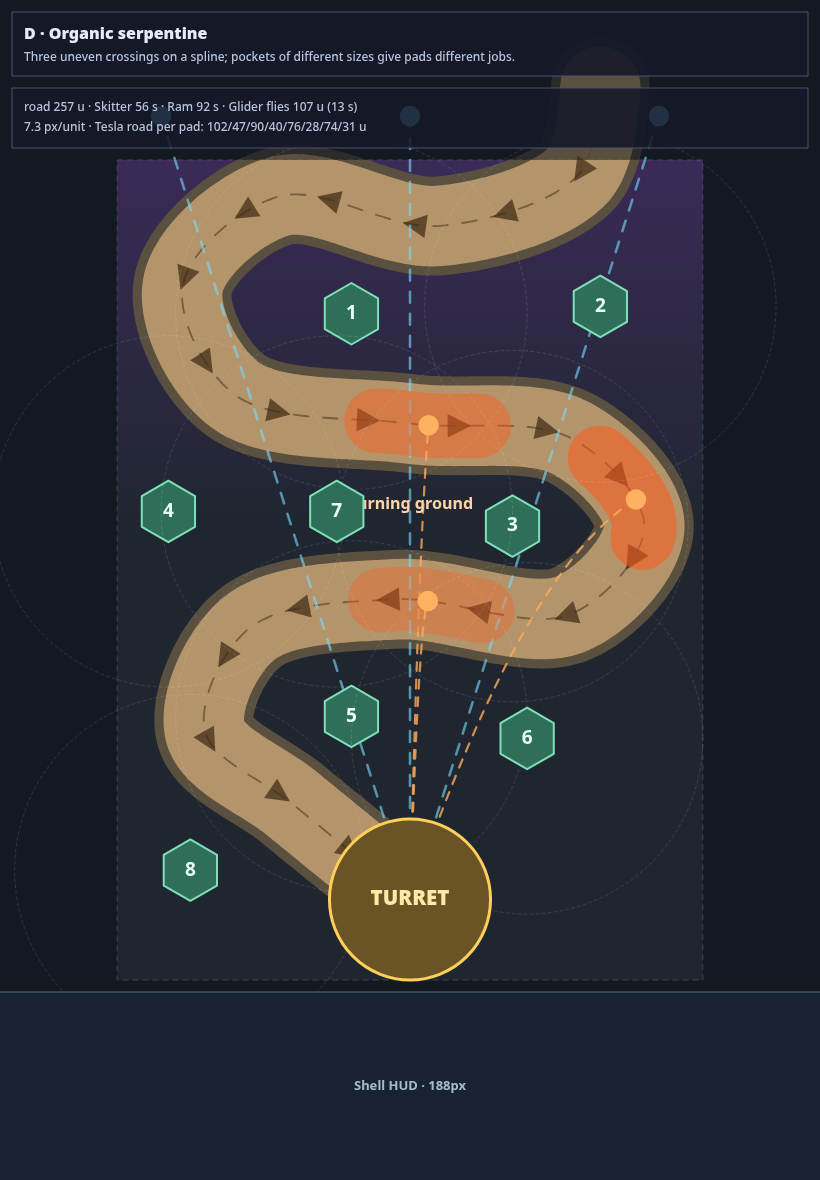
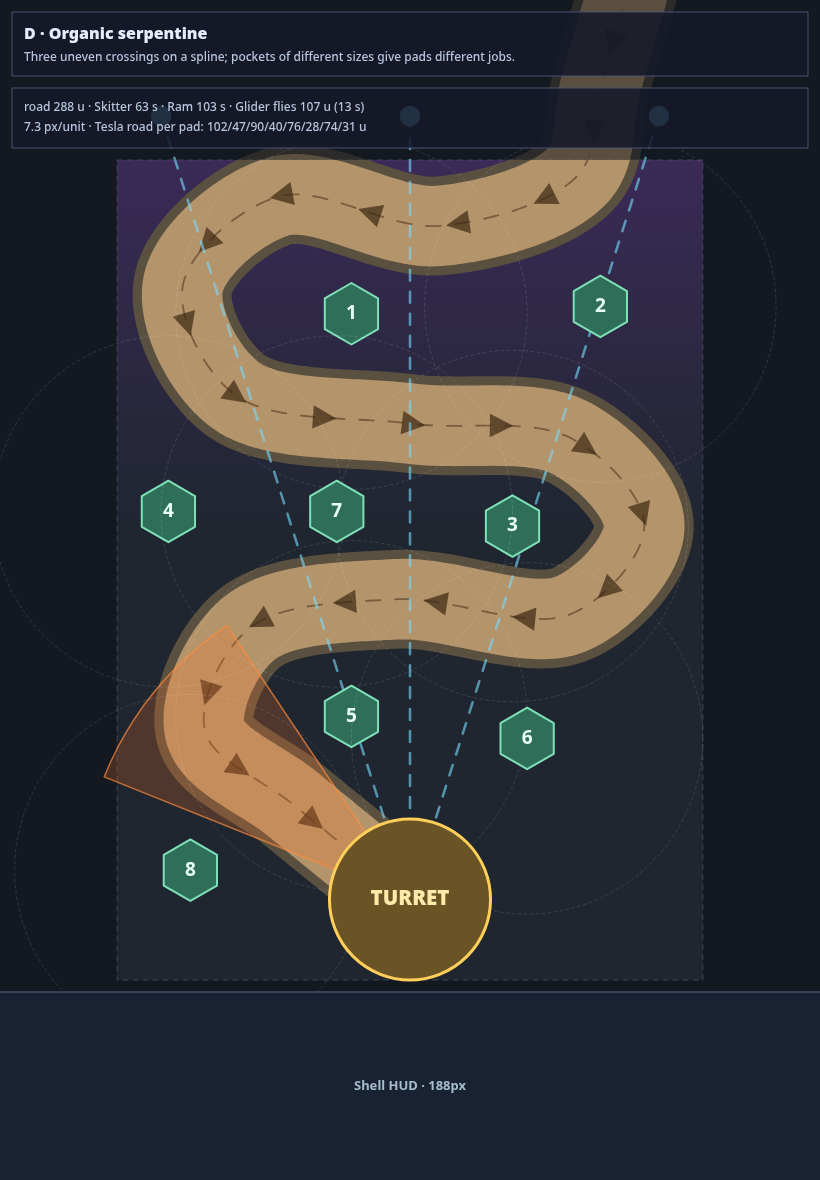
Dynamo Defense: shared road geometry, paint guides and painting brief
Layout D moves into sim/road.ts (road waypoints from the hive mouth, eight pads,
flyer spawns, paint-box registration) with a clearance test. The sketch page reads
it, and ?guide=portrait|landscape draws the flat-colour paint guides or, with
&check=, overlays the road, pads and apron on a finished painting.
scripts/td-paint-guide.mjs writes both. docs/towerdefense/paint-guide/PROMPT.md
is the round-based brief for the painting.

diff --git a/src/games/towerdefense/sim/road.ts b/src/games/towerdefense/sim/road.ts
@@ -1,0 +1,94 @@
+// Single-road layout (layout D, "organic serpentine"). The sketch page, the paint guides and the sim all read
+// this file, so the painted road and the walking road are the same curve. Pure: no DOM.
+export interface Pt { x: number; y: number }
+
+/** Field in world units: x across, y from the spawn edge (0) to behind the turret (FIELD_H). */
+export const FIELD_W = 80;
+export const FIELD_H = 112;
+export const TURRET: Pt = { x: 40, y: 101 };
+export const TURRET_R = 11;
+export const ROAD_HALF_WIDTH = 5.5;
+export const SHOULDER = 1.25;
+export const PAD_R = 4.2;
+
+/**
+ * Waypoints the road passes through. It starts at a burrow mouth deep in the hive, which only tall screens show;
+ * enemies enter where it crosses SPAWN_Y, under the status rows.
+ */
+export const HIVE_MOUTH: Pt = { x: 74, y: -40 };
+export const SPAWN_Y = -10;
+export const ROAD_WAYPOINTS: readonly Pt[] = [
+  HIVE_MOUTH, { x: 70, y: -24 }, { x: 66, y: -10 }, { x: 63, y: 2 }, { x: 44, y: 9 }, { x: 22, y: 5 }, { x: 9, y: 17 }, { x: 16, y: 32 },
+  { x: 40, y: 36 }, { x: 62, y: 38 }, { x: 72, y: 50 }, { x: 62, y: 62 }, { x: 38, y: 60 }, { x: 18, y: 64 },
+  { x: 12, y: 78 }, { x: 24, y: 88 }, TURRET,
+];
+
+/** Eight build pads. Ids are the array index. */
+export const ROAD_PADS: readonly Pt[] = [
+  { x: 32, y: 21 }, { x: 66, y: 20 }, { x: 54, y: 50 }, { x: 7, y: 48 },
+  { x: 32, y: 76 }, { x: 56, y: 79 }, { x: 30, y: 48 }, { x: 10, y: 97 },
+];
+
+/** Gliders fly straight from these points to the turret. */
+export const FLYER_SPAWNS: readonly Pt[] = [{ x: 6, y: -6 }, { x: 40, y: -6 }, { x: 74, y: -6 }];
+
+/** Centripetal Catmull-Rom through every waypoint, sampled about every half unit. */
+export function splineLine(pts: readonly Pt[]): Pt[] {
+  const out: Pt[] = [pts[0]];
+  for (let i = 0; i < pts.length - 1; i++) {
+    const p0 = pts[Math.max(0, i - 1)], p1 = pts[i], p2 = pts[i + 1], p3 = pts[Math.min(pts.length - 1, i + 2)];
+    const d = (a: Pt, b: Pt) => Math.max(1e-3, Math.sqrt(Math.hypot(b.x - a.x, b.y - a.y)));
+    const t0 = 0, t1 = t0 + d(p0, p1), t2 = t1 + d(p1, p2), t3 = t2 + d(p2, p3);
+    const n = Math.max(2, Math.ceil(Math.hypot(p2.x - p1.x, p2.y - p1.y) * 2));
+    for (let j = 1; j <= n; j++) {
+      const t = t1 + (t2 - t1) * j / n;
+      const L = (a: Pt, b: Pt, ta: number, tb: number) => ({ x: ((tb - t) * a.x + (t - ta) * b.x) / (tb - ta), y: ((tb - t) * a.y + (t - ta) * b.y) / (tb - ta) });
+      const a1 = L(p0, p1, t0, t1), a2 = L(p1, p2, t1, t2), a3 = L(p2, p3, t2, t3);
+      const b1 = L(a1, a2, t0, t2), b2 = L(a2, a3, t1, t3);
+      out.push(L(b1, b2, t1, t2));
+    }
+  }
+  return out;
+}
+
+export const ROAD: readonly Pt[] = splineLine(ROAD_WAYPOINTS);
+
+/** Shortest distance from a point to the sampled road centre line. */
+export function distanceToRoad(p: Pt, line: readonly Pt[] = ROAD): number {
+  let best = Infinity;
+  for (let i = 1; i < line.length; i++) {
+    const a = line[i - 1], b = line[i], dx = b.x - a.x, dy = b.y - a.y, len2 = dx * dx + dy * dy || 1;
+    const t = Math.max(0, Math.min(1, ((p.x - a.x) * dx + (p.y - a.y) * dy) / len2));
+    best = Math.min(best, Math.hypot(p.x - a.x - dx * t, p.y - a.y - dy * t));
+  }
+  return best;
+}
+
+/** Road length from the spawn edge (SPAWN_Y) to where it meets the turret deck. */
+export function walkedLength(line: readonly Pt[] = ROAD): number {
+  let s = 0;
+  for (let i = 1; i < line.length; i++) {
+    if (line[i].y < SPAWN_Y) continue;
+    if (Math.hypot(line[i].x - TURRET.x, line[i].y - TURRET.y) < TURRET_R) break;
+    s += Math.hypot(line[i].x - line[i - 1].x, line[i].y - line[i - 1].y);
+  }
+  return s;
+}
+
+/**
+ * Paint-guide registration. Both paintings cover the same world box; portrait maps it upright, landscape turns it
+ * 90° so the spawn edge is on the right and the turret on the left. Image pixels per world unit = PAINT_PX / box.
+ */
+export const PAINT_BOX = { x0: -40, y0: -60, x1: 120, y1: 180 } as const;
+export type PaintOrientation = 'portrait' | 'landscape';
+export function paintSize(o: PaintOrientation, long = 1536) {
+  const w = PAINT_BOX.x1 - PAINT_BOX.x0, h = PAINT_BOX.y1 - PAINT_BOX.y0, s = long / Math.max(w, h);
+  return o === 'portrait' ? { w: w * s, h: h * s, pxPerUnit: s } : { w: h * s, h: w * s, pxPerUnit: s };
+}
+/** World point to image pixel for a painting of the given size. */
+export function worldToPaint(o: PaintOrientation, p: Pt, long = 1536): Pt {
+  const { pxPerUnit: s } = paintSize(o, long);
+  return o === 'portrait'
+    ? { x: (p.x - PAINT_BOX.x0) * s, y: (p.y - PAINT_BOX.y0) * s }
+    : { x: (PAINT_BOX.y1 - p.y) * s, y: (p.x - PAINT_BOX.x0) * s };
+}

diff --git a/dev/td-sketch.ts b/dev/td-sketch.ts
@@ -1,6 +1,8 @@
 // Single-road layout sketches for Dynamo Defense. Plain vectors over the real status rows and the
 // measured shell HUD band, in whatever viewport the page has. ?v=A|B|C picks a variant; ?hud=px overrides.
 // ?side=0 keeps landscape status rows on top; ?flame=cone|range|lob; ?lock=1 shows a paddle-stepped target lock.
+import { FLYER_SPAWNS, ROAD_PADS, ROAD_WAYPOINTS, SPAWN_Y, splineLine } from '../src/games/towerdefense/sim/road';
+import { drawGuide } from './td-paint-guide';
 type P = { x: number; y: number };
 interface Variant { name: string; note: string; road: P[]; pads: P[]; flyers: P[]; smooth?: boolean }
 
@@ -15,9 +17,9 @@ const SPEED = { Skitter: 4.6, Ram: 2.8, Glider: 8.5 };
 const VARIANTS: Record<string, Variant> = {
   D: {
     name: 'D · Organic serpentine', note: 'Three uneven crossings on a spline; pockets of different sizes give pads different jobs.', smooth: true,
-    road: [{ x: 66, y: -10 }, { x: 63, y: 2 }, { x: 44, y: 9 }, { x: 22, y: 5 }, { x: 9, y: 17 }, { x: 16, y: 32 }, { x: 40, y: 36 }, { x: 62, y: 38 }, { x: 72, y: 50 }, { x: 62, y: 62 }, { x: 38, y: 60 }, { x: 18, y: 64 }, { x: 12, y: 78 }, { x: 24, y: 88 }, TURRET],
-    pads: [{ x: 32, y: 21 }, { x: 66, y: 20 }, { x: 54, y: 50 }, { x: 7, y: 48 }, { x: 32, y: 76 }, { x: 56, y: 79 }, { x: 30, y: 48 }, { x: 10, y: 97 }],
-    flyers: [{ x: 6, y: -6 }, { x: 40, y: -6 }, { x: 74, y: -6 }],
+    road: [...ROAD_WAYPOINTS],
+    pads: [...ROAD_PADS],
+    flyers: [...FLYER_SPAWNS],
   },
   A: {
     name: 'A · Serpentine', note: 'Three full-width legs. Longest road; every gap holds a row of pads.',
@@ -39,24 +41,6 @@ const VARIANTS: Record<string, Variant> = {
   },
 };
 
-/** Centripetal Catmull-Rom through every waypoint, sampled about every half unit. */
-function splineLine(pts: P[]): P[] {
-  const out: P[] = [pts[0]];
-  for (let i = 0; i < pts.length - 1; i++) {
-    const p0 = pts[Math.max(0, i - 1)], p1 = pts[i], p2 = pts[i + 1], p3 = pts[Math.min(pts.length - 1, i + 2)];
-    const d = (a: P, b: P) => Math.max(1e-3, Math.sqrt(Math.hypot(b.x - a.x, b.y - a.y)));
-    const t0 = 0, t1 = t0 + d(p0, p1), t2 = t1 + d(p1, p2), t3 = t2 + d(p2, p3);
-    const n = Math.max(2, Math.ceil(Math.hypot(p2.x - p1.x, p2.y - p1.y) * 2));
-    for (let j = 1; j <= n; j++) {
-      const t = t1 + (t2 - t1) * j / n;
-      const L = (a: P, b: P, ta: number, tb: number) => ({ x: ((tb - t) * a.x + (t - ta) * b.x) / (tb - ta), y: ((tb - t) * a.y + (t - ta) * b.y) / (tb - ta) });
-      const a1 = L(p0, p1, t0, t1), a2 = L(p1, p2, t1, t2), a3 = L(p2, p3, t2, t3);
-      const b1 = L(a1, a2, t0, t2), b2 = L(a2, a3, t1, t3);
-      out.push(L(b1, b2, t1, t2));
-    }
-  }
-  return out;
-}
 /** Waypoints with quadratic fillets at each interior corner, sampled about every half unit. */
 function roadLine(pts: P[]): P[] {
   const out: P[] = [pts[0]];
@@ -76,7 +60,7 @@ function roadLine(pts: P[]): P[] {
 }
 const length = (l: P[]) => l.slice(1).reduce((s, p, i) => s + Math.hypot(p.x - l[i].x, p.y - l[i].y), 0);
 /** Distance along the road, ending where it enters the turret deck. */
-function walked(l: P[]) { let s = 0; for (let i = 1; i < l.length; i++) { if (Math.hypot(l[i].x - TURRET.x, l[i].y - TURRET.y) < TURRET_R) break; s += Math.hypot(l[i].x - l[i - 1].x, l[i].y - l[i - 1].y); } return s; }
+function walked(l: P[]) { let s = 0; for (let i = 1; i < l.length; i++) { if (l[i].y < SPAWN_Y) continue; if (Math.hypot(l[i].x - TURRET.x, l[i].y - TURRET.y) < TURRET_R) break; s += Math.hypot(l[i].x - l[i - 1].x, l[i].y - l[i - 1].y); } return s; }
 const nearest = (l: P[], p: P) => Math.min(...l.map(q => Math.hypot(q.x - p.x, q.y - p.y)));
 /** Road length inside a ring, a rough measure of how much of the road a pad covers. */
 const covered = (l: P[], p: P, r: number) => l.slice(1).reduce((s, q, i) => s + (Math.hypot(q.x - p.x, q.y - p.y) < r && q.y > -2 && Math.hypot(q.x - TURRET.x, q.y - TURRET.y) > TURRET_R ? Math.hypot(q.x - l[i].x, q.y - l[i].y) : 0), 0);
@@ -237,5 +221,7 @@ function draw() {
     g.fillText(i === 2 ? `${n} · ${notes[3]}` : n, nx, pos);
   });
 }
-addEventListener('resize', draw); draw();
+const guide = q.get('guide');
+if (guide === 'portrait' || guide === 'landscape') void drawGuide(canvas, guide, q.get('check'), Number(q.get('long') ?? 1536));
+else { addEventListener('resize', draw); draw(); }
 export {};

diff --git a/dev/td-paint-guide.ts b/dev/td-paint-guide.ts
@@ -1,0 +1,67 @@
+// Paint guides for the single-road background, and an overlay check for a finished painting.
+// td-sketch.html?guide=portrait|landscape            flat-colour guide at the painting's pixel size
+// td-sketch.html?guide=portrait&check=/path/to.webp   the painting with the sim's road, pads and apron on top
+import { FIELD_H, FIELD_W, PAD_R, PAINT_BOX, paintSize, ROAD, ROAD_HALF_WIDTH, ROAD_PADS, SHOULDER, HIVE_MOUTH, TURRET, TURRET_R, worldToPaint, type PaintOrientation, type Pt } from '../src/games/towerdefense/sim/road';
+
+export const GUIDE_COLORS = {
+  sides: '#5c5c66', field: '#80808a', hive: '#6b3d8c', deepHive: '#43215e', yard: '#4f6170',
+  shoulder: '#9a7448', road: '#dcb47e', mouth: '#1e0b2a', pad: '#3fae6a', apron: '#d8a630', safe: '#ffffff',
+};
+
+export async function drawGuide(canvas: HTMLCanvasElement, o: PaintOrientation, check: string | null, long = 1536) {
+  const { w, h, pxPerUnit: k } = paintSize(o, long);
+  canvas.width = w; canvas.height = h;
+  canvas.style.cssText = `width:${w}px;height:${h}px;display:block`;
+  document.documentElement.style.overflow = document.body.style.overflow = 'auto';
+  const g = canvas.getContext('2d')!;
+  const P = (p: Pt) => worldToPaint(o, p, long);
+  const rect = (x0: number, y0: number, x1: number, y1: number, color: string) => {
+    const a = P({ x: x0, y: y0 }), b = P({ x: x1, y: y1 });
+    g.fillStyle = color; g.fillRect(Math.min(a.x, b.x), Math.min(a.y, b.y), Math.abs(b.x - a.x), Math.abs(b.y - a.y));
+  };
+  const path = (pts: readonly Pt[]) => { g.beginPath(); pts.forEach((p, i) => { const s = P(p); i ? g.lineTo(s.x, s.y) : g.moveTo(s.x, s.y); }); };
+  const circle = (p: Pt, r: number) => { const s = P(p); g.beginPath(); g.arc(s.x, s.y, r * k, 0, Math.PI * 2); };
+  const { x0, y0, x1, y1 } = PAINT_BOX;
+  const safe = () => {
+    const a = P({ x: 0, y: 0 }), b = P({ x: FIELD_W, y: FIELD_H });
+    g.strokeStyle = GUIDE_COLORS.safe; g.lineWidth = 3; g.setLineDash([14, 10]);
+    g.strokeRect(Math.min(a.x, b.x), Math.min(a.y, b.y), Math.abs(b.x - a.x), Math.abs(b.y - a.y)); g.setLineDash([]);
+  };
+
+  if (check) {
+    const img = new Image(); img.src = check; await img.decode();
+    g.drawImage(img, 0, 0, w, h);
+    // Road edges and shoulder edges, offset along the sampled normals.
+    const offset = (d: number) => ROAD.map((p, i) => {
+      const a = ROAD[Math.max(0, i - 1)], b = ROAD[Math.min(ROAD.length - 1, i + 1)], len = Math.hypot(b.x - a.x, b.y - a.y) || 1;
+      return { x: p.x - (b.y - a.y) / len * d, y: p.y + (b.x - a.x) / len * d };
+    });
+    g.lineWidth = 2;
+    for (const side of [-1, 1]) {
+      g.strokeStyle = '#00e5ff'; g.setLineDash([]); path(offset(side * ROAD_HALF_WIDTH)); g.stroke();
+      g.strokeStyle = 'rgba(0,229,255,0.6)'; g.setLineDash([8, 6]); path(offset(side * (ROAD_HALF_WIDTH + SHOULDER))); g.stroke();
+    }
+    g.strokeStyle = 'rgba(255,255,255,0.7)'; g.setLineDash([4, 8]); path(ROAD); g.stroke(); g.setLineDash([]);
+    g.strokeStyle = '#ff3df2'; g.lineWidth = 3; for (const p of ROAD_PADS) { circle(p, PAD_R); g.stroke(); }
+    g.strokeStyle = '#ffe14a'; circle(TURRET, TURRET_R); g.stroke();
+    safe();
+    return;
+  }
+
+  // Zones: sides first, then the field, the hive beyond the spawn edge, and the yard behind the turret.
+  rect(x0, y0, x1, y1, GUIDE_COLORS.sides);
+  rect(0, 0, FIELD_W, FIELD_H, GUIDE_COLORS.field);
+  rect(x0, y0, x1, 0, GUIDE_COLORS.hive);
+  rect(x0, y0, x1, -28, GUIDE_COLORS.deepHive);
+  rect(x0, FIELD_H, x1, y1, GUIDE_COLORS.yard);
+  // Road with its shoulders, including the run into the hive.
+  g.lineCap = 'round'; g.lineJoin = 'round';
+  for (const [width, color] of [[(ROAD_HALF_WIDTH + SHOULDER) * 2, GUIDE_COLORS.shoulder], [ROAD_HALF_WIDTH * 2, GUIDE_COLORS.road]] as const) {
+    g.strokeStyle = color; g.lineWidth = width * k;
+    path(ROAD); g.stroke();
+  }
+  g.fillStyle = GUIDE_COLORS.mouth; circle(HIVE_MOUTH, 9); g.fill();
+  g.fillStyle = GUIDE_COLORS.apron; circle(TURRET, TURRET_R + 1); g.fill();
+  g.fillStyle = GUIDE_COLORS.pad; for (const p of ROAD_PADS) { circle(p, PAD_R + 1); g.fill(); }
+  safe();
+}

diff --git a/src/games/towerdefense/test/road.test.ts b/src/games/towerdefense/test/road.test.ts
@@ -1,0 +1,26 @@
+import { describe, expect, it } from 'vitest';
+import { distanceToRoad, FIELD_H, FIELD_W, PAD_R, paintSize, ROAD_HALF_WIDTH, ROAD_PADS, SHOULDER, TURRET, TURRET_R, walkedLength, worldToPaint } from '../sim/road';
+
+describe('single road layout', () => {
+  it('keeps every pad clear of the road, the turret, the field edge and each other', () => {
+    for (const [i, p] of ROAD_PADS.entries()) {
+      expect(distanceToRoad(p), `pad ${i} vs road`).toBeGreaterThanOrEqual(ROAD_HALF_WIDTH + SHOULDER + PAD_R + 1);
+      expect(Math.hypot(p.x - TURRET.x, p.y - TURRET.y), `pad ${i} vs turret`).toBeGreaterThanOrEqual(TURRET_R + PAD_R + 2);
+      expect(p.x - PAD_R).toBeGreaterThanOrEqual(0); expect(p.x + PAD_R).toBeLessThanOrEqual(FIELD_W);
+      expect(p.y + PAD_R).toBeLessThanOrEqual(FIELD_H);
+      for (const q of ROAD_PADS.slice(i + 1)) expect(Math.hypot(p.x - q.x, p.y - q.y)).toBeGreaterThan(PAD_R * 2 + 4);
+    }
+  });
+  it('is a long road, roughly twice an old lane', () => {
+    expect(walkedLength()).toBeGreaterThan(230);
+    expect(walkedLength()).toBeLessThan(290);
+  });
+  it('maps the paint box onto 2:3 portrait and 3:2 landscape images', () => {
+    expect(paintSize('portrait')).toMatchObject({ w: 1024, h: 1536 });
+    expect(paintSize('landscape')).toMatchObject({ w: 1536, h: 1024 });
+    const tp = worldToPaint('portrait', TURRET), tl = worldToPaint('landscape', TURRET);
+    expect(tp.x).toBeCloseTo(512); expect(tl.y).toBeCloseTo(512);
+    // Landscape: spawn edge (y = 0) right of the turret.
+    expect(worldToPaint('landscape', { x: 40, y: 0 }).x).toBeGreaterThan(tl.x);
+  });
+});

diff --git a/docs/towerdefense/paint-guide/PROMPT.md b/docs/towerdefense/paint-guide/PROMPT.md
@@ -1,0 +1,118 @@
+# Dynamo Defense: single-road battlefield painting brief
+
+You are painting the terrain background for Dynamo Defense, the tower-defense game in this repo, after its move
+from three lanes to one winding road. The road and build pads are fixed game data. Your painting must match them.
+The work happens in **rounds**: several portrait rounds with owner feedback, then landscape only after the owner
+approves the portrait.
+
+## Inputs (read all of these first)
+
+| File | What it is |
+|---|---|
+| `docs/towerdefense/paint-guide/portrait-guide.png` | 1024×1536 flat-colour layout guide, portrait |
+| `docs/towerdefense/paint-guide/landscape-guide.png` | 1536×1024 guide, the same world turned 90°: turret left, hive right |
+| `public/td/environment/background.webp` | the previous painting: the **material and style reference** |
+| `public/td/environment/preview.png` | the previous painting with the real turret, towers and aliens on it |
+| `public/td/outpost/preview.png`, `public/td/towers/preview.png` | machinery the painting must sit under |
+| `src/games/towerdefense/sim/road.ts` | the geometry the guides are drawn from (read only) |
+| `docs/towerdefense/sketches/d-port.png`, `d-land.png` | gameplay sketches with the HUD, for context |
+
+Guide colours:
+
+| Colour | Meaning |
+|---|---|
+| tan band | road surface. Keep its centre line and width |
+| brown edge on the tan band | low rubble shoulder, about 8 px wide at 1024×1536 |
+| green circles | build clearings: flat, level, **empty** ground |
+| gold circle | turret apron: flat, level, **empty** ground where the outpost machine sits |
+| near-black circle | burrow mouth where the road starts, deep in the hive |
+| mid grey inside the dashed rectangle | the playfield: textured rock ground, the main painting |
+| darker grey either side | rock ridges and terraces (overflow) |
+| violet band, then dark violet | hive territory beyond the spawn edge, getting denser and darker outward (overflow) |
+| blue-grey band | our side, behind the turret: salvage yard, cable trenches, scorched ground (overflow) |
+| white dashed rectangle | the safe gameplay area. Do not paint the line |
+
+## Style
+
+- Match the previous painting's materials: chunky dark basalt rock with crisp fractured facets, worn compacted
+  brown-earth road with soft frayed edges and scattered pebbles, low rubble shoulders, rusted brass and steel
+  industrial remnants half-sunk into the rock, and violet alien creep in the hive.
+- Rich and dramatic, but readable under small sprites: the road surface must stay the lightest broad value in the
+  playfield, so tan and orange aliens read on it. Keep large rock masses darker and lower in contrast than the road.
+- **Camera:** straight down, orthographic. No perspective, no vanishing points, no visible vertical cliff faces,
+  no tilt. A unit of distance must measure the same everywhere in the image.
+- **Light:** a soft key light from the **top of the frame**, matching the sprites (their manifests say `light: top`).
+  Shadows fall gently toward the bottom of the frame. Depth comes from cast shadows, bevel highlights on upper edges,
+  ambient occlusion in creases, and dark chasms. This direction is relative to the frame, so the landscape painting
+  is lit from its own top edge.
+- No bright emissive spots in the playfield; glows read as weapon effects. Faint creep glow in the hive is fine.
+
+## Hard geometry rules (checked by overlay)
+
+At 1024×1536 the scale is 6.4 px per world unit.
+- **Road:** the painted road surface must cover the tan band. Its edges may be ragged but must stay within
+  ±6 px of the guide's tan edge along the whole road. The rubble shoulder stays within the brown edge, plus at most 6 px.
+- **Road surface:** level and walkable along the whole length. No boulders, pipes, pits or debris on it inside the
+  dashed rectangle. Small pebbles and wheel ruts are fine.
+- **Clearings and apron:** flat, uncluttered ground at least the size of each circle. Paint each as a slightly
+  levelled, compacted patch, so a building there looks intended. **No structures, foundations, hex marks or pads.**
+- **Do not paint:** the turret, towers, aliens, cables or wires, text, numbers, UI, the dashed line, vignettes or borders.
+  The game draws all of these itself.
+- **Edges:** every edge of the image is overflow that can appear behind interface panels on some screens. Carry
+  the terrain all the way to every edge at full fidelity, with no fade, darkening frame or empty margin.
+- **Overflow:** outside the dashed rectangle, keep the terrain calmer and lower in contrast than the playfield,
+  with no focal points. Interface panels and controller overlays may sit on top of it, possibly translucent.
+
+## Set pieces (portrait coordinates at 1024×1536)
+
+- Hive mouth, near (730, 128): an organic burrow or cave mouth swallowing the road, ringed with creep. Creep thins out
+  toward the dashed rectangle, and only light creep enters the top of the playfield.
+- Open ground at the bottom right of the playfield, about (600–760, 1000–1100), and left of the middle crossing:
+  good places for one or two dramatic but low features (a fissure, a half-buried machine hulk, a crater),
+  away from clearings and the road.
+- Behind the turret (below the dashed rectangle): our salvage yard, with crates, girders, scorched plates and
+  cable trenches running toward the apron. Keep it dimmer than the playfield.
+
+## Process: rounds
+
+Work on a branch from `td-single-lane` and open a PR into it. Each round goes in
+`docs/towerdefense/paint-guide/rounds/<orientation>-<n>/` with:
+1. `painting.png`: the 1024×1536 (or 1536×1024) generation, before upscaling.
+2. A copy of the upscaled production file, also at `public/td/environment/road/<orientation>.webp`:
+   2.5× (2560×3840 or 3840×2560), WebP quality about 85.
+3. `check.png`: run `npm run dev -- --port 5203` and then `node scripts/td-paint-guide.mjs`
+   (set `CHROMIUM_PATH` if Chromium is not at `/usr/bin/chromium`). The script writes
+   `docs/towerdefense/paint-guide/<orientation>-check.png`, which overlays the game's road edges (cyan), shoulder
+   edges (dashed cyan), clearings (magenta), apron (yellow) and safe area on your painting. Copy it into the round folder.
+4. `NOTES.md`, 15 lines at most: what changed this round, where the road misses the overlay (if anywhere),
+   and anything you are unsure about.
+
+**Portrait rounds:**
+- Round 1 paints from the guide and the style references.
+- Later rounds start from the previous round's painting, plus the owner's feedback quoted in the PR or task, and
+  edit it rather than starting over, unless the feedback asks for a fresh take.
+- Fix the overlay misses each round.
+- **Stop after each portrait round** and wait for feedback. Do not start landscape until the owner writes
+  "portrait approved".
+
+**Landscape round** (after approval):
+- Use `landscape-guide.png` for the layout and the approved portrait painting for materials and landmarks.
+- It is the same place seen from a different heading: every landmark (hive mouth, set pieces, salvage yard,
+  distinctive rocks near the road) sits at the same world position. Rotate the approved portrait 90° clockwise
+  as a positional reference.
+- Relight it so the key light again comes from the **top of the new frame**. Do not just rotate the portrait
+  painting; its shadows would then fall sideways.
+- Same rules, check and round folder (`landscape-1/`, …). Stop for feedback after each landscape round.
+
+## Do not
+
+- Edit anything under `src/`, including `road.ts`. If the layout seems impossible to paint well, explain why in NOTES.md.
+- Replace or delete `public/td/environment/background.webp` or other existing assets. The game switches over separately.
+- Add runtime dependencies.
+
+## Done means
+
+- Both orientations approved by the owner. Each has a production WebP in `public/td/environment/road/`,
+  a clean overlay check, and its round history in `docs/towerdefense/paint-guide/rounds/`.
+- `public/td/environment/road/NOTES.md` (40 lines at most) records the files, sizes, the registration
+  (`PAINT_BOX` and `worldToPaint` in `road.ts`), and how they were made.
